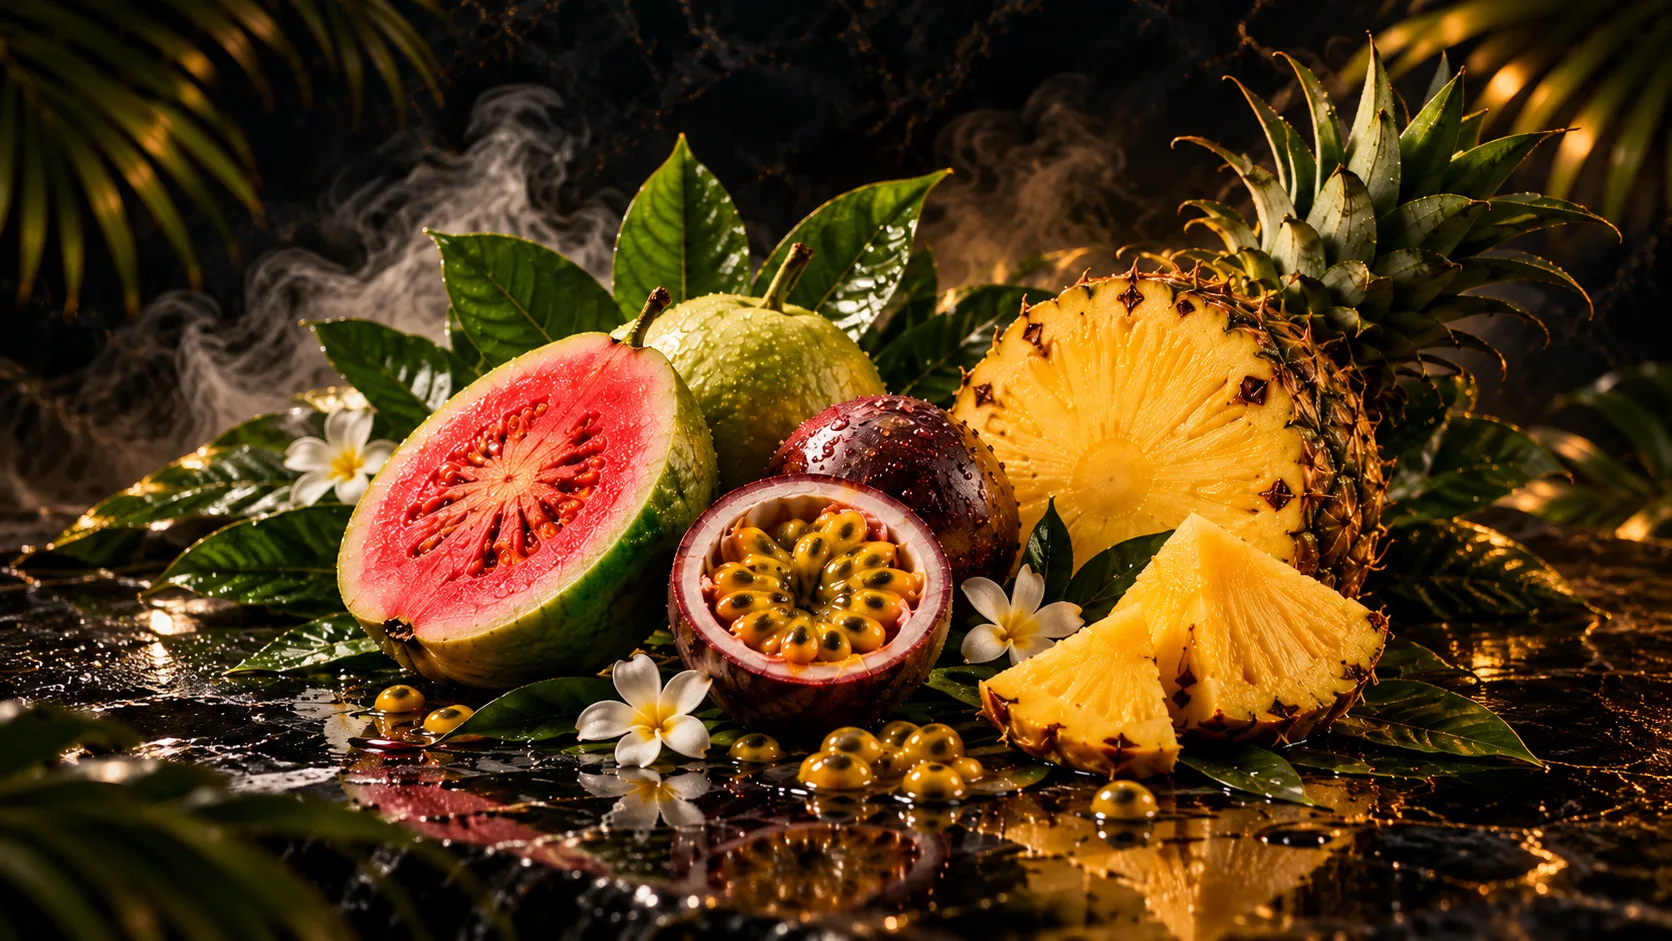
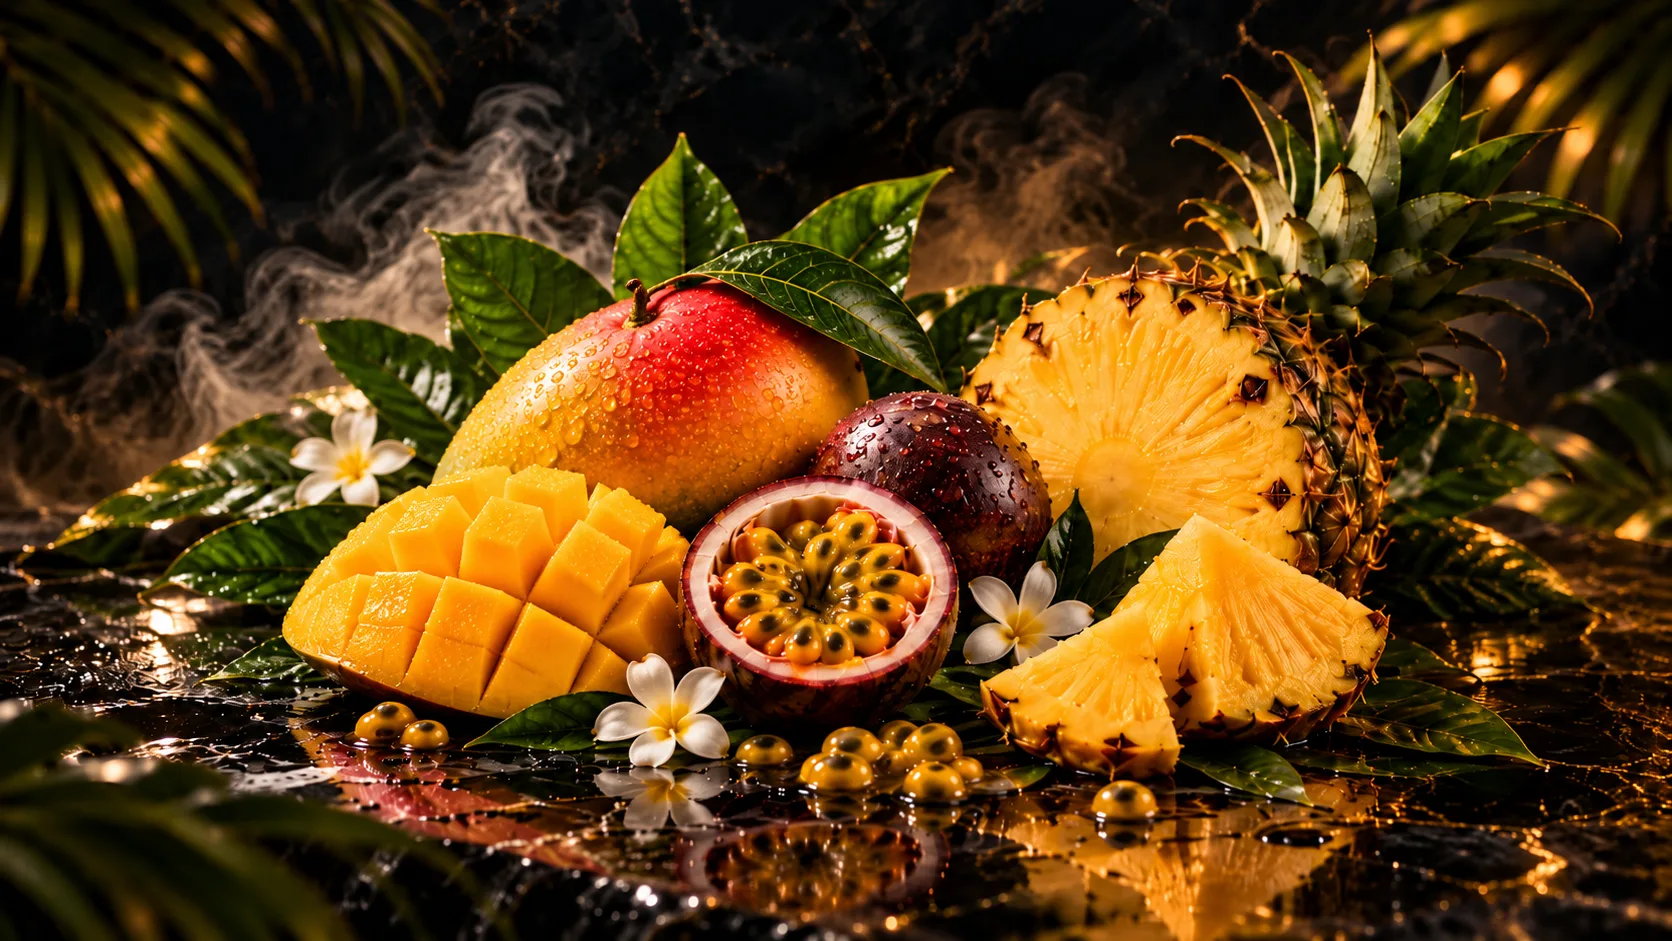
Update Tropical Bazaar and add Signature tasting lines
- Tropical Bazaar: Mango · Passion Fruit · Pineapple, new image (same path, 1672x941)
- Each Signature card gets a short muted tasting line under the ingredients
  (display only; order payload unchanged)

diff --git a/js/signature-flavors.js b/js/signature-flavors.js
@@ -1,13 +1,14 @@
 /* HANSUM SIGNATURE — the 8 house blends, shared by hansum.html (Da Nang) and hansum-saigon.html (Saigon).
    Single source for the flavor list. The Hansum Signature PRICE is per branch and lives in each page's shishaOptions.
-   `id` is sent to the team as order.signatureFlavorId; `name` as order.signatureFlavorName. */
+   `id` is sent to the team as order.signatureFlavorId; `name` as order.signatureFlavorName.
+   `description` = ingredient line; `tasting` = short flavor-experience line (display only, not sent). */
 window.HANSUM_SIGNATURE_FLAVORS = [
-  { id: 'jade-bean', name: 'Jade Bean', description: 'Green Bean · Coconut · Vanilla', image: 'images/signature/jade-bean.webp' },
-  { id: 'tropical-bazaar', name: 'Tropical Bazaar', description: 'Guava · Passion Fruit · Pineapple', image: 'images/signature/tropical-bazaar.webp' },
-  { id: 'golden-citrus', name: 'Golden Citrus', description: 'Orange · Lemon', image: 'images/signature/golden-citrus.webp' },
-  { id: 'silk-rose', name: 'Silk Rose', description: 'Rose · Lychee', image: 'images/signature/silk-rose.webp' },
-  { id: 'jasmine-honey-garden', name: 'Jasmine Honey Garden', description: 'Jasmine Tea · Pear · Honey', image: 'images/signature/jasmine-honey-garden.webp' },
-  { id: 'saigon-velvet', name: 'Saigon Velvet', description: 'Coffee · Coconut · Vanilla · Caramel', image: 'images/signature/saigon-velvet.webp' },
-  { id: 'mango-moon', name: 'Mango Moon', description: 'Mango Sticky Rice', image: 'images/signature/mango-moon.webp' },
-  { id: 'black-temple', name: 'Black Temple', description: 'Sandalwood · Vanilla · Black Tea', image: 'images/signature/black-temple.webp' }
+  { id: 'jade-bean', name: 'Jade Bean', description: 'Green Bean · Coconut · Vanilla', tasting: 'Creamy, nutty and softly sweet', image: 'images/signature/jade-bean.webp' },
+  { id: 'tropical-bazaar', name: 'Tropical Bazaar', description: 'Mango · Passion Fruit · Pineapple', tasting: 'Juicy, bright and tropical', image: 'images/signature/tropical-bazaar.webp' },
+  { id: 'golden-citrus', name: 'Golden Citrus', description: 'Orange · Lemon', tasting: 'Fresh, zesty and uplifting', image: 'images/signature/golden-citrus.webp' },
+  { id: 'silk-rose', name: 'Silk Rose', description: 'Rose · Lychee', tasting: 'Floral, elegant and lightly sweet', image: 'images/signature/silk-rose.webp' },
+  { id: 'jasmine-honey-garden', name: 'Jasmine Honey Garden', description: 'Jasmine Tea · Pear · Honey', tasting: 'Delicate, fragrant and mellow', image: 'images/signature/jasmine-honey-garden.webp' },
+  { id: 'saigon-velvet', name: 'Saigon Velvet', description: 'Coffee · Coconut · Vanilla · Caramel', tasting: 'Rich, creamy and dessert-like', image: 'images/signature/saigon-velvet.webp' },
+  { id: 'mango-moon', name: 'Mango Moon', description: 'Mango Sticky Rice', tasting: 'Creamy mango with a soft finish', image: 'images/signature/mango-moon.webp' },
+  { id: 'black-temple', name: 'Black Temple', description: 'Sandalwood · Vanilla · Black Tea', tasting: 'Deep, woody and sophisticated', image: 'images/signature/black-temple.webp' }
 ];

diff --git a/css/order.css b/css/order.css
@@ -603,3 +603,6 @@ img { display: block; max-width: 100%; }
   linear-gradient(180deg, rgba(5, 7, 13, .05) 30%, rgba(5, 7, 13, .86) 100%); }
 @media (max-width: 360px) { .sig__cap { max-width: 80%; } .sig__desc { font-size: 13px; } }
 @media (min-width: 700px) { .sig__name { font-size: 40px; } }
+/* Tasting line under the ingredients: third in the hierarchy (name > ingredients > tasting), muted gold-grey. */
+.sig__note { margin-top: 3px; font-size: 12px; line-height: 1.25; font-style: italic; letter-spacing: .015em; color: rgba(222, 208, 178, .72); }
+@media (max-width: 360px) { .sig__note { font-size: 11.5px; margin-top: 2px; } }

diff --git a/js/order-ui.js b/js/order-ui.js
@@ -509,6 +509,7 @@
               <span class="sig__name">{{f.name}}</span>
               <span class="sig__rule" aria-hidden="true"></span>
               <span class="sig__desc">{{f.description}}</span>
+              <span v-if="f.tasting" class="sig__note">{{f.tasting}}</span>
             </span>
             <span class="sig__tick" aria-hidden="true"><svg class="ic"><use href="#i-check"/></svg></span>
           </button>
